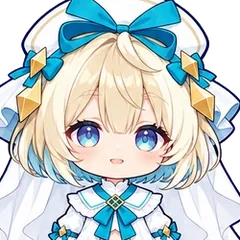
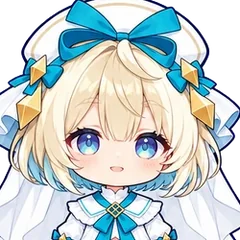
Star Garden pass 15: tap relic slots to equip, plain queen/behemoth previews, role labels, portrait nudges
- Empty relic slots and the prep sheet's 변경 open a relic loadout sheet in place (same flow as the team sheet)
- Queen preview: extra gold at wave end and whether it is already applied; Behemoth: range as +% from training
- Role labels for Antropy, Venom, Ash follow the role · attack form pattern
- Collection portraits: Toffee Apple, Harmonious, Time Magician nudged right; Doom, Rumi nudged down

diff --git a/defense/src/app.js b/defense/src/app.js
@@ -123,7 +123,7 @@ function card(id,kind='hero',receipt=null,full=false){
 // The three relic slots: what is equipped now, tap to open it.
 function relicSlots(compact=false){
   const worn=p().equipped;
-  return `<div class="relic-slots ${compact?'compact':''}">${compact?'':`<div class="relic-slots-head"><b>장착 중인 유물 ${worn.length}/3</b><small>장착한 유물의 효과가 원정에 적용됩니다</small></div>`}<div class="relic-slot-row">${[0,1,2].map(i=>{const id=worn[i];return id?`<button class="relic-slot filled" data-relic="${id}" data-rarity="${ARTIFACT[id].rarity}">${image(id)}<span><b>${ARTIFACT[id].name}</b>${compact?'':`<small>Lv.${relicLevel(p().relics[id])}</small>`}</span></button>`:`<span class="relic-slot empty">${icon('plus')}<small>빈 칸</small></span>`;}).join('')}</div></div>`;
+  return `<div class="relic-slots ${compact?'compact':''}">${compact?'':`<div class="relic-slots-head"><b>장착 중인 유물 ${worn.length}/3</b><small>장착한 유물의 효과가 원정에 적용됩니다</small></div>`}<div class="relic-slot-row">${[0,1,2].map(i=>{const id=worn[i];return id?`<button class="relic-slot filled" data-relic="${id}" data-rarity="${ARTIFACT[id].rarity}">${image(id)}<span><b>${ARTIFACT[id].name}</b>${compact?'':`<small>Lv.${relicLevel(p().relics[id])}</small>`}</span></button>`:`<button class="relic-slot empty" data-action="relic-team" aria-label="${i+1}번째 유물 선택">${icon('plus')}<small>빈 칸</small></button>`;}).join('')}</div></div>`;
 }
 // Puts the current value of each enhancement-scaled number into the (escaped) description, coloured.
 const liveText=(text,tokens)=>{let out=escapeText(text),pos=0;for(const [from,to] of tokens){const f=escapeText(from),at=out.indexOf(f,pos);if(at<0)continue;const mark=`<em class="scaled">${escapeText(to)}</em>`;out=out.slice(0,at)+mark+out.slice(at+f.length);pos=at+mark.length;}return out;};
@@ -187,6 +187,15 @@ function team(edit=false){
   if(!edit){teamReturn=modal==='prepare'?modalInfo:null;editingDeck=[...p().deck];}
   show('팀 편성',`출전 ${editingDeck.length}/${TEAM_SIZE}`,`${five(editingDeck,true)}<p class="fineprint" style="margin-top:10px">서로 다른 동료 ${TEAM_SIZE}명이 필요합니다. 편성된 동료를 누르면 해제됩니다.</p><div class="choose-list" style="margin-top:14px">${HEROES.filter(h=>p().heroes[h.id].owned).map(h=>`<button class="choose-row" data-team-pick="${h.id}" aria-pressed="${editingDeck.includes(h.id)}" ${away(p(),h.id)||p().active?'disabled':''}>${portrait(h.id)}<div><strong>${h.name}${badge(h.rarity)}</strong><small>${away(p(),h.id)?'파견 중 · 귀환 후 편성 가능':`${h.role} · 전투력 ${cpOf(h.id)}`}</small></div><span class="mark">${editingDeck.includes(h.id)?icon('check'):icon('plus')}</span></button>`).join('')}</div>`,
     `<button class="primary wide" data-action="save-team" ${editingDeck.length!==TEAM_SIZE||p().active?'disabled':''}>편성 확정 (${editingDeck.length}/${TEAM_SIZE})</button>`,'team');
+}
+// Relic loadout: the same flow as the team sheet (slots on top, owned list below, confirm returns to the prep sheet).
+let editingRelics=[],relicReturn=null;
+function relicTeam(edit=false){
+  if(!edit){relicReturn=modal==='prepare'?modalInfo:null;editingRelics=[...p().equipped];}
+  const owned=ARTIFACTS.filter(a=>p().relics[a.id].owned).sort((a,b)=>RARITIES.indexOf(b.rarity)-RARITIES.indexOf(a.rarity));
+  const slots=`<div class="relic-slot-row">${[0,1,2].map(i=>{const id=editingRelics[i];return id?`<button class="relic-slot filled" data-relic-pick="${id}" data-rarity="${ARTIFACT[id].rarity}" aria-label="${ARTIFACT[id].name} 장착 해제">${image(id)}<span><b>${ARTIFACT[id].name}</b></span></button>`:`<button class="relic-slot empty" data-action="focus-team" aria-label="${i+1}번째 유물 선택">${icon('plus')}<small>빈 칸</small></button>`;}).join('')}</div>`;
+  show('유물 장착',`장착 ${editingRelics.length}/3`,`${slots}<p class="fineprint" style="margin-top:10px">장착한 유물을 누르면 해제됩니다.</p><div class="choose-list" style="margin-top:14px">${owned.map(a=>`<button class="choose-row relic-row" data-relic-pick="${a.id}" aria-pressed="${editingRelics.includes(a.id)}" ${p().active?'disabled':''}><span class="portrait" data-rarity="${a.rarity}">${image(a.id)}</span><div><strong>${a.name}${badge(a.rarity)}<span class="relic-lv">Lv.${relicLevel(p().relics[a.id])}</span></strong><small class="relic-effect">${relicText(a.id,relicLevel(p().relics[a.id]))}</small></div><span class="mark">${editingRelics.includes(a.id)?icon('check'):icon('plus')}</span></button>`).join('')}</div>`,
+    `<button class="primary wide" data-action="save-relics" ${p().active?'disabled':''}>장착 확정 (${editingRelics.length}/3)</button>`,'relic-team');
 }
 function begin(kind,stage){const result=act('begin',{mode:kind,stage:kind==='weekly'?weeklyChapter()+1:stage,...(kind==='main'?{}:{tier:challengeTier})},false);if(!result.ok)return;close();if(kind==='weekly'){screen='draft';render();}else startBattle();}
 function renderDraft(){
@@ -589,7 +598,7 @@ function heroView(){
 }
 function relicView(){
   const worn=p().equipped,bonus=collectionBonus(p().relics),list=ARTIFACTS.filter(a=>rarity==='all'||a.rarity===rarity).sort((a,b)=>Number(p().relics[b.id].owned)-Number(p().relics[a.id].owned)||RARITIES.indexOf(b.rarity)-RARITIES.indexOf(a.rarity));
-  return `<div class="relic-top"><div class="equip-row">${[0,1,2].map(i=>{const id=worn[i];return id?`<button class="equip-slot filled" data-relic="${id}" data-rarity="${ARTIFACT[id].rarity}">${image(id)}<small>${ARTIFACT[id].name}</small></button>`:`<span class="equip-slot">${icon('plus')}<small>빈 칸</small></span>`;}).join('')}</div>
+  return `<div class="relic-top"><div class="equip-row">${[0,1,2].map(i=>{const id=worn[i];return id?`<button class="equip-slot filled" data-relic="${id}" data-rarity="${ARTIFACT[id].rarity}">${image(id)}<small>${ARTIFACT[id].name}</small></button>`:`<button class="equip-slot" data-action="relic-team" aria-label="${i+1}번째 유물 선택">${icon('plus')}<small>빈 칸</small></button>`;}).join('')}</div>
     <button class="relic-bonus" data-action="relic-info"><small>수집 보너스</small><b>+${(bonus*100).toFixed(1)}%</b><span>모든 동료 위력 ${icon('info')}</span></button></div>
     ${rarityFilter(ARTIFACTS,p().relics)}<div class="cards relics">${list.map(a=>relicCard(a.id)).join('')}</div>`;
 }
@@ -769,7 +778,7 @@ function prepare(stage=Math.min(MAIN_STAGES,p().cleared+1),kind='main'){
     :`<div class="prep-boss"><small>${t.name}</small><h2>${kind==='weekly'?'주간 드래프트':'월간 보스전'}</h2><p>${kind==='weekly'?`보유 동료 중에서 ${TEAM_SIZE}명을 골라요.`:`${CHALLENGE_WAVES}연전`}</p></div>`;
   show(kind==='main'?`스테이지 ${stageLabel(stage)}`:kind==='weekly'?'주간 드래프트':'월간 보스전','출격 준비',`${head}
     ${kind==='weekly'?'':`<div class="panel-head"><h3>출전 팀</h3><span class="power">전투력 <b>${fmt(teamPower(p()))}</b></span></div>${five(p().deck)}`}
-    <div class="panel-head"><h3>장착 유물</h3><button class="link" data-action="go-relics">변경</button></div>${relicSlots(true)}`,
+    <div class="panel-head"><h3>장착 유물</h3><button class="link" data-action="relic-team">변경</button></div>${relicSlots(true)}`,
     `<div class="dialog-buttons">${kind==='weekly'?'':'<button class="secondary" data-action="team">편성</button>'}<button class="primary shine" data-begin="${kind}" data-stage="${stage}" ${p().deck.length!==TEAM_SIZE?'disabled':''}>${kind==='main'?'출격':'입장'}</button></div>`,'prepare',{stage,kind});
 }
 
@@ -1091,6 +1100,7 @@ document.addEventListener('click',e=>{
   if(d.enhance||d.enhanceRelic){const id=d.enhance||d.enhanceRelic,c=centerOf(button);if(act('enhance',{id,kind:d.enhance?'hero':'relic'},false).ok){refreshBehind();(d.enhance?heroDetail:relicDetail)(id);burst(c.x,c.y,{count:14,spread:80,size:11,color:'#ffe39a'});}return;}
   if(d.equip){if(act('equip',{id:d.equip},false).ok){refreshBehind();relicDetail(d.equip);}return;}
   if(d.setPartner){if(act('partner',{id:d.setPartner},false).ok){close();if(screen==='home')render();toast(`파트너 · ${HERO[d.setPartner].name}`);}return;}
+  if(d.relicPick){const i=editingRelics.indexOf(d.relicPick);if(i>=0)editingRelics.splice(i,1);else if(editingRelics.length<3)editingRelics.push(d.relicPick);else{toast('유물은 3개까지 장착해요. 먼저 하나를 빼 주세요.');return;}relicTeam(true);return;}
   if(d.teamPick){const i=editingDeck.indexOf(d.teamPick);if(i>=0)editingDeck.splice(i,1);else if(editingDeck.length<TEAM_SIZE)editingDeck.push(d.teamPick);else{toast(`편성은 ${TEAM_SIZE}명이에요. 먼저 한 명을 빼 주세요.`);return;}team(true);return;}
   if(d.dispatchSlot){dispatchTap(Number(d.dispatchSlot));return;}
   if(d.send){if(act('dispatch',{id:d.send,slot:Number(d.slot)},false).ok){close();refreshGarden();toast(`${HERO[d.send].name} 파견 출발 · ${T.dispatchHours}시간`);}return;}
@@ -1098,7 +1108,7 @@ document.addEventListener('click',e=>{
   if(d.skill){if(skillHeld){skillHeld=false;return;}if(button.classList.contains('unavailable'))return;battleCommand(E.cast(run,d.skill));return;}if(d.train){battleCommand(E.upgrade(run,d.train));training();return;}if(d.sell){battleCommand(E.sell(run,Number(d.sell)));return;}if(d.reward){battleCommand(E.chooseReward(run,d.reward));close();previousPhase='';return;}
   if(d.setting){if(act('setting',{id:d.setting,value:!p().settings[d.setting]},false).ok)showSettings();return;}if(d.daily){claimDaily([d.daily]);return;}
   if(d.confirmMonthly){if(act('claimMonthly',{token:d.confirmMonthly}).ok){close();render();}return;}
-  const actions={close:()=>{if(modal==='reward')return;if(modal==='draw'&&bonusItems){showBonus();return;}close();},settings:showSettings,partner:partners,team:()=>team(),'focus-team':()=>document.querySelector('#sheet-body .choose-list')?.scrollIntoView({behavior:'smooth',block:'start'}),rates,history,records,daily,
+  const actions={close:()=>{if(modal==='reward')return;if(modal==='draw'&&bonusItems){showBonus();return;}close();},settings:showSettings,partner:partners,team:()=>team(),'relic-team':()=>relicTeam(),'save-relics':()=>{if(act('relics',{ids:editingRelics}).ok){const back=relicReturn;relicReturn=null;close();render();if(back)prepare(back.stage,back.kind);}},'focus-team':()=>document.querySelector('#sheet-body .choose-list')?.scrollIntoView({behavior:'smooth',block:'start'}),rates,history,records,daily,
     'daily-all':()=>claimDaily(DAILY_MISSIONS.filter(m=>missionDone(todayDaily(),m.id)&&!todayDaily().claimed.includes(m.id)).map(m=>m.id)),
     bond:()=>bondSheet(d.id||p().partner),'gift-tray':()=>toggleTray(button),talk,'lobby-view':()=>setLobbyView(!lobbyView),idle:collectStars,'idle-shard':collectStars,
     'memorial-story':()=>toggleStory(button),fullscreen:toggleFullscreen,'unit-info':unitInfo,'reveal-skip':skipReveal,

diff --git a/defense/src/combat/engine.js b/defense/src/combat/engine.js
@@ -234,7 +234,7 @@ export function trainingBonus(id,level){
   if(id==='frost_witch')return `감속 대상 빙결 ${(.6+level*.06).toFixed(2)}초 · 보스 절반`;
   if(id==='harmonious')return `조화 1종당 위력 +${6+level*.5}% · 공속 +${Number((5+level*.2).toFixed(1))}% · 앙상블 +${Math.round(ULT_BUFF.harmony.power*100)+level*2}%`;
   if(id==='aurora')return `환영탄 위력 ${75+level*3}%`;
-  const extra={doom:`필살기 기본 ${7+level}배`,queen:`1성 배당 ${queenIncome(1,1,level)}G`,siren:`인접 공속 +${15+level*3}%`,ancient_dragon:`인접 공격 +${20+level*3}%`,snow_rabbit:`감속 ${40+level*2}%`,guardian:`세 번째 공격 기절 ${(.7+level*.05).toFixed(2)}초`,great_detective:`일반 노출 +${8+level*2}% · 보스 +${15+level*2}%`,time_ruler:`장판 감속 ${25+level*3}%`,santa:`선물 폭탄 위력 ${200+level*20}%`,time_magician:`인접 추가 공격 위력 ${60+level*5}%`,behemoth:`오라 2배 · 필살기 반경 ${Number((CRUSH.radius*(1+level*CRUSH.trainingRadius)).toFixed(3))}`};
+  const extra={doom:`필살기 기본 ${7+level}배`,queen:`1성 배당 ${queenIncome(1,1,level)}G`,siren:`인접 공속 +${15+level*3}%`,ancient_dragon:`인접 공격 +${20+level*3}%`,snow_rabbit:`감속 ${40+level*2}%`,guardian:`세 번째 공격 기절 ${(.7+level*.05).toFixed(2)}초`,great_detective:`일반 노출 +${8+level*2}% · 보스 +${15+level*2}%`,time_ruler:`장판 감속 ${25+level*3}%`,santa:`선물 폭탄 위력 ${200+level*20}%`,time_magician:`인접 추가 공격 위력 ${60+level*5}%`,behemoth:`오라 2배 · 필살기 범위 +${Math.round(level*CRUSH.trainingRadius*100)}%`};
   return extra[id]||'';
 }
 // Base-power comparison excludes rank, relics and temporary buffs; it never
@@ -960,7 +960,7 @@ export function castPreview(s,id){
     lines.push(`적 전체에게 위력 9배, ${hit(9)}를 줍니다.`);
     lines.push(`적은 ${sec(winterDuration(s,u))} 동안 ${pctText(slowOf(WINTER_COURT.slow*scale))} 느려집니다.`);
     lines.push(`겨울 동안 적이 받는 피해가 ${pct(WINTER_EXPOSURE)}% 늘어납니다.`);
-    lines.push(`겨울은 ${sec(winterDuration(s,u))} 동안 이어지고, 쓰러진 적 주변 120 안의 일반 적이 ${sec(WINTER_COURT.killFreeze)} 동안 얼어붙습니다.`);
+    lines.push(`겨울은 ${sec(winterDuration(s,u))} 동안 이어지고, 쓰러진 적 주변의 일반 적이 ${sec(WINTER_COURT.killFreeze)} 동안 얼어붙습니다.`);
   }else if(type==='harmony'){
     const level=s.upgrades.harmonious||0,field=control*scale;
     lines.push(`${dur(ULT_BUFF.harmony.seconds,'harmony')} 동안 모든 동료의 위력 ${pct((ULT_BUFF.harmony.power+level*.02)*field)}%, 공격 속도 ${pct((ULT_BUFF.harmony.speed+level*.02)*field)}%가 오릅니다.`);
@@ -1078,9 +1078,11 @@ export function castPreview(s,id){
   }else if(type==='fortune'){const level=s.upgrades[id]||0,factor=fortuneFactor(s.gold-skillGoldCost(id),level);lines.push(`적 전체에게 위력 ${factor}배, ${hit(factor)}를 줍니다.`);if(factor<12+level)lines.push(`내고 남은 골드 40마다 +1배 (최대 ${12+level}배).`);}
   else if(type==='dividend'){
     lines.push(`적 전체에게 위력 4배, ${hit(4)}를 주고 즉시 골드 ${QUEEN_TAX}을 받습니다.`);
-    lines.push(s.edictWave===s.wave?'이번 웨이브의 수입 증가는 이미 적용됐습니다.':'이번 웨이브를 마칠 때 웨이브 수입이 50% 늘어납니다. 늘어나는 수입은 웨이브당 한 번만 적용됩니다.');
+    // The edict pays half of this wave's base income once; a second cast in the same wave only adds the tax.
+    const edict=Math.round(waveIncome(s.wave)*.5);lines.push(`이번 웨이브 종료 시 추가 골드 +${edict}${s.edictWave===s.wave?' · 적용 중':''}`);
   }else if(type==='crush'){
-    lines.push(`무작위 적 주변(반경 ${Number(crushRadius(s).toFixed(3))})에 ${hit(CRUSH.factor)}를 ${CRUSH.gap}초 간격으로 ${CRUSH.hits}번 줍니다.`);
+    const grow=Math.round((s.upgrades.behemoth||0)*CRUSH.trainingRadius*100);
+    lines.push(`무작위 적 주변에 ${hit(CRUSH.factor)}를 ${CRUSH.gap}초 간격으로 ${CRUSH.hits}번 줍니다.${grow?` 훈련으로 범위 +${grow}%.`:''}`);
     if(targets.length===1)lines.push(`적이 하나뿐이면 모두 그 적에게 들어갑니다(합계 ${hit(CRUSH.factor*CRUSH.hits)}).`);
   }else if(type==='bigshow'){
     lines.push(`적 전체에게 위력 ${UNDERDOG.factor}배, ${hit(UNDERDOG.factor)}를 줍니다.`);

diff --git a/defense/src/data.js b/defense/src/data.js
@@ -58,7 +58,7 @@ export const HEROES = [
       "directional": true,
       "portrait": {
         "x": 261,
-        "y": 213,
+        "y": 205,
         "size": 250
       }
     },
@@ -800,7 +800,7 @@ export const HEROES = [
       "directional": true,
       "portrait": {
         "x": 253,
-        "y": 207,
+        "y": 199,
         "size": 250
       }
     },
@@ -948,7 +948,7 @@ export const HEROES = [
       "scale": 1,
       "directional": true,
       "portrait": {
-        "x": 255,
+        "x": 248,
         "y": 207,
         "size": 250
       }
@@ -1060,7 +1060,7 @@ export const HEROES = [
       "scale": 1,
       "directional": true,
       "portrait": {
-        "x": 262,
+        "x": 255,
         "y": 225,
         "size": 250
       }
@@ -1150,7 +1150,7 @@ export const HEROES = [
       "name": "대지분쇄",
       "cost": 70,
       "type": "crush",
-      "text": "무작위 적을 노려 주변(반경 112.5)에 위력 6배 충격을 0.5초 간격으로 3번 줍니다. 훈련마다 기본 반경의 5%가 더해집니다."
+      "text": "무작위 적을 노려 주변에 위력 6배 충격을 0.5초 간격으로 3번 줍니다. 훈련마다 범위 +5%."
     },
     "heightGroup": "tall",
     "role": "오라 증폭 · 대지 분쇄",
@@ -1208,7 +1208,7 @@ export const HEROES = [
       "scale": 1,
       "directional": true,
       "portrait": {
-        "x": 261,
+        "x": 254,
         "y": 227,
         "size": 250
       }
@@ -1338,7 +1338,7 @@ export const HEROES = [
       "text": "적의 모든 디버프를 지우고 전체 7배 피해를 줍니다."
     },
     "heightGroup": "short",
-    "role": "오라 덱 · 범위",
+    "role": "디버프 무효 · 범위",
     "shape": "splash",
     "range": 480,
     "radius": 70
@@ -1412,7 +1412,7 @@ export const HEROES = [
       "text": "가장 성급이 낮은 동료 한 명을 불태워 소멸시키고(무적이면 소멸하지 않습니다), 가장 밀집한 반경 180의 적에게 위력 18배 피해를 줍니다."
     },
     "heightGroup": "medium",
-    "role": "화상 · 환원",
+    "role": "화상 · 범위",
     "shape": "splash",
     "range": 470,
     "radius": 64
@@ -1449,7 +1449,7 @@ export const HEROES = [
       "text": "적 전체에게 위력 3배 피해와 중독 3중첩을 주고, 10초 동안 적이 받는 화상·중독 피해가 2배가 됩니다."
     },
     "heightGroup": "medium",
-    "role": "지속 단일",
+    "role": "지속 피해 · 단일",
     "shape": "single",
     "range": 520,
     "radius": 0

diff --git a/defense/src/profile.js b/defense/src/profile.js
@@ -216,6 +216,9 @@ export function command(p,action,args={},now=Date.now()){
   if(action==='deck'){
     const ids=args.ids;if(p.active||!Array.isArray(ids)||ids.length!==TEAM_SIZE||new Set(ids).size!==TEAM_SIZE||ids.some(id=>!p.heroes[id]?.owned||away(p,id)))return no(`파견 중이 아닌 서로 다른 동료 ${TEAM_SIZE}명을 선택하세요.`);p.deck=[...ids];return {ok:true,message:'편성을 저장했습니다.'};
   }
+  if(action==='relics'){
+    const ids=args.ids;if(p.active||!Array.isArray(ids)||ids.length>3||new Set(ids).size!==ids.length||ids.some(id=>!p.relics[id]?.owned))return no('보유한 서로 다른 유물을 3개까지 장착할 수 있습니다.');p.equipped=[...ids];return {ok:true,message:'유물 장착을 저장했습니다.'};
+  }
   if(action==='equip'){
     if(p.active||!p.relics[args.id]?.owned)return no('보유한 유물만 장착할 수 있습니다.');const at=p.equipped.indexOf(args.id);if(at>=0)p.equipped.splice(at,1);else if(p.equipped.length<3)p.equipped.push(args.id);else return no('유물은 최대 3개까지 장착할 수 있습니다.');return {ok:true};
   }

diff --git a/defense/src/style.css b/defense/src/style.css
@@ -910,6 +910,12 @@ body[data-battle=true] .battle-notice,body[data-battle=true] .overlay{backdrop-f
 .relic-slot small{font-size:10px;color:var(--text3)}
 .relic-slot.empty{justify-content:center;border:1.5px dashed var(--line2);color:var(--text3);font-size:11px}
 .relic-slot.empty .ic{width:14px;height:14px}
+.relic-slot.empty{background:none;cursor:pointer}
+.relic-row .portrait{display:grid;place-items:center}
+.relic-row .portrait img{width:38px;height:38px;object-fit:contain}
+.relic-row strong{display:flex;align-items:center;gap:6px;flex-wrap:wrap}
+.relic-row .relic-lv{font-size:11px;font-weight:700;color:var(--text3)}
+.relic-row small.relic-effect{display:block;white-space:normal;overflow:visible;line-height:1.4;word-break:keep-all;color:var(--text2)}
 .relic-slots.compact{padding:0;background:none;border:0;margin:0 0 4px}
 .relic-slots.compact .relic-slot{min-height:46px}
 .relic-slots.compact .relic-slot.filled img{width:32px;height:32px}
